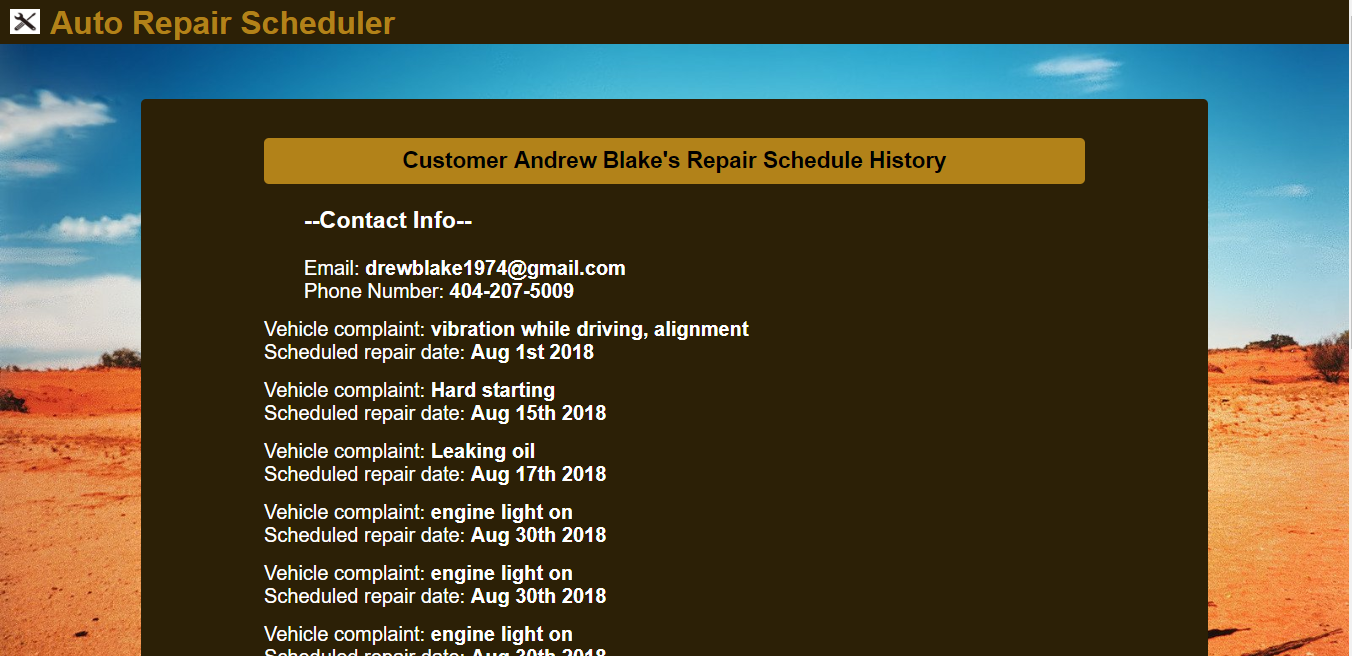
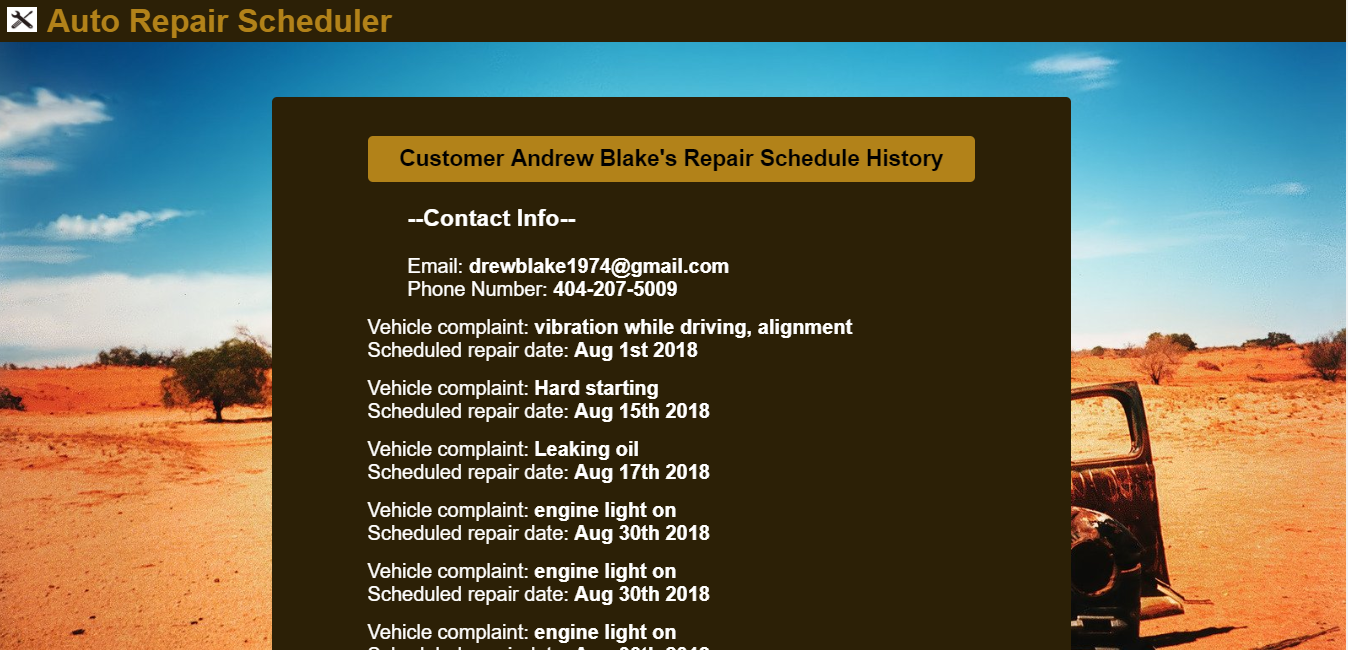
updated screen shots

diff --git a/public/index.css b/public/index.css
@@ -196,7 +196,7 @@ p {
 }
 
 .list {
-  width: 80%;
+  /*width: 80%;*/
   list-style: none;
   padding: 20px;
   margin-top: 100px;
@@ -216,6 +216,10 @@ p {
 
   .list, .message {
     font-size: 15px;
+  }
+
+  .list {
+    width: 80%;
   }
 
   .copyright {
